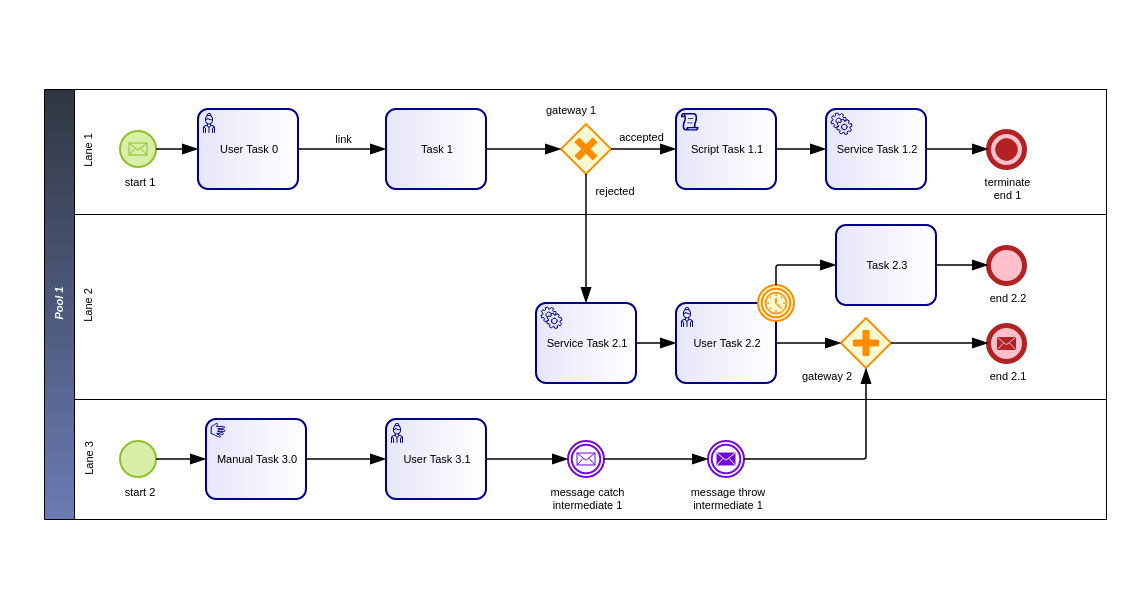
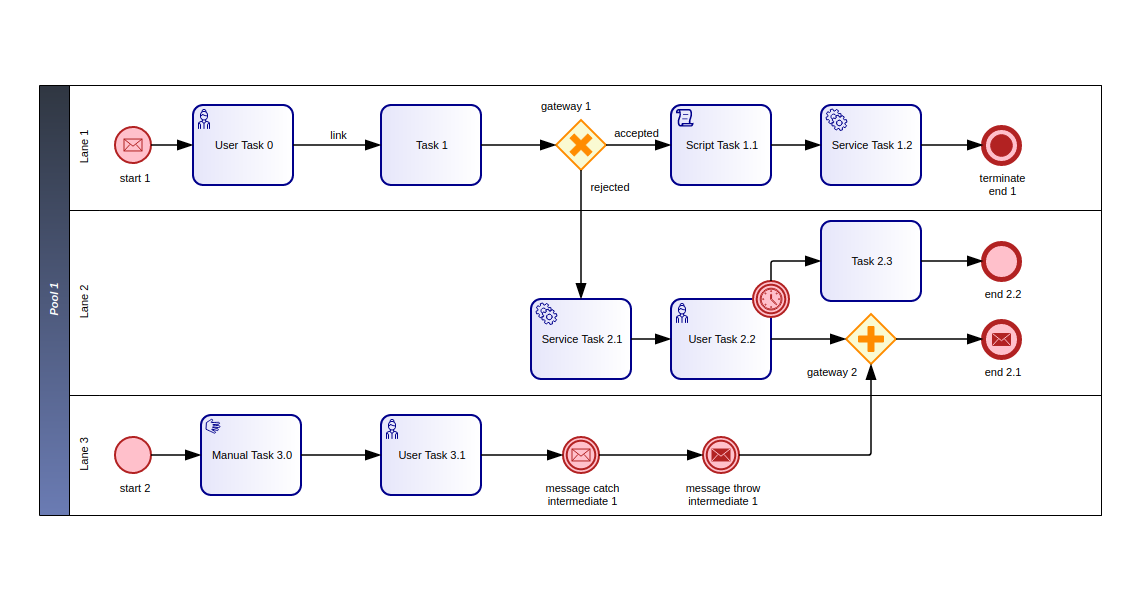
[FEAT] Improve the layout of the diagram used in 'custom colors' example (#279)
Better align the tasks and the gateway at the right of the diagram. Update the preview accordingly.

Changed region(s): [[0.0307, 0.12, 0.9825, 0.87]]

diff --git a/examples/static/js/diagram/bpmn-diagrams.js b/examples/static/js/diagram/bpmn-diagrams.js
@@ -1067,11 +1067,11 @@ function getCustomColorsBpmnDiagram() {
       <bpmn:lane id="Lane_1dunul0" name="Lane 2">
         <bpmn:flowNodeRef>Activity_1wr0s0r</bpmn:flowNodeRef>
         <bpmn:flowNodeRef>Activity_1c0vze1</bpmn:flowNodeRef>
-        <bpmn:flowNodeRef>Gateway_1hq21li</bpmn:flowNodeRef>
-        <bpmn:flowNodeRef>Activity_1isj93o</bpmn:flowNodeRef>
         <bpmn:flowNodeRef>Event_0gj6ba4</bpmn:flowNodeRef>
         <bpmn:flowNodeRef>Event_1euev5d</bpmn:flowNodeRef>
         <bpmn:flowNodeRef>Event_0b04u9t</bpmn:flowNodeRef>
+        <bpmn:flowNodeRef>Activity_1isj93o</bpmn:flowNodeRef>
+        <bpmn:flowNodeRef>Gateway_1hq21li</bpmn:flowNodeRef>
       </bpmn:lane>
       <bpmn:lane id="Lane_13kpaun" name="Lane 1">
         <bpmn:flowNodeRef>Activity_1sn3x37</bpmn:flowNodeRef>
@@ -1121,18 +1121,9 @@ function getCustomColorsBpmnDiagram() {
       <bpmn:incoming>Flow_0i9h5sw</bpmn:incoming>
       <bpmn:outgoing>Flow_1hvyo7b</bpmn:outgoing>
     </bpmn:serviceTask>
-    <bpmn:parallelGateway id="Gateway_1hq21li" name="gateway 2">
-      <bpmn:incoming>Flow_0sqwsrw</bpmn:incoming>
-      <bpmn:incoming>Flow_0g017tm</bpmn:incoming>
-      <bpmn:outgoing>Flow_09zytr1</bpmn:outgoing>
-    </bpmn:parallelGateway>
     <bpmn:sequenceFlow id="Flow_1hvyo7b" sourceRef="Activity_1wr0s0r" targetRef="Activity_1c0vze1" />
     <bpmn:sequenceFlow id="Flow_0sqwsrw" sourceRef="Activity_1c0vze1" targetRef="Gateway_1hq21li" />
     <bpmn:sequenceFlow id="Flow_09zytr1" sourceRef="Gateway_1hq21li" targetRef="Event_0gj6ba4" />
-    <bpmn:task id="Activity_1isj93o" name="Task 2.3">
-      <bpmn:incoming>Flow_0y3c2hb</bpmn:incoming>
-      <bpmn:outgoing>Flow_1rtnm1c</bpmn:outgoing>
-    </bpmn:task>
     <bpmn:sequenceFlow id="Flow_1rtnm1c" sourceRef="Activity_1isj93o" targetRef="Event_1euev5d" />
     <bpmn:sequenceFlow id="Flow_08z7uoy" sourceRef="Activity_0gsh2b6" targetRef="Event_1wihmdr" />
     <bpmn:sequenceFlow id="Flow_0t8djvo" sourceRef="Event_1wihmdr" targetRef="Event_1q818hp" />
@@ -1178,6 +1169,15 @@ function getCustomColorsBpmnDiagram() {
       <bpmn:incoming>Flow_0ule9dn</bpmn:incoming>
       <bpmn:outgoing>Flow_1ceafgv</bpmn:outgoing>
     </bpmn:scriptTask>
+    <bpmn:task id="Activity_1isj93o" name="Task 2.3">
+      <bpmn:incoming>Flow_0y3c2hb</bpmn:incoming>
+      <bpmn:outgoing>Flow_1rtnm1c</bpmn:outgoing>
+    </bpmn:task>
+    <bpmn:parallelGateway id="Gateway_1hq21li" name="gateway 2">
+      <bpmn:incoming>Flow_0sqwsrw</bpmn:incoming>
+      <bpmn:incoming>Flow_0g017tm</bpmn:incoming>
+      <bpmn:outgoing>Flow_09zytr1</bpmn:outgoing>
+    </bpmn:parallelGateway>
   </bpmn:process>
   <bpmndi:BPMNDiagram id="BPMNDiagram_1">
     <bpmndi:BPMNPlane id="BPMNPlane_1" bpmnElement="Collaboration_03068dc">
@@ -1193,19 +1193,47 @@ function getCustomColorsBpmnDiagram() {
       <bpmndi:BPMNShape id="Lane_0xke7q1_di" bpmnElement="Lane_0xke7q1" isHorizontal="true">
         <dc:Bounds x="188" y="360" width="1032" height="120" />
       </bpmndi:BPMNShape>
+      <bpmndi:BPMNEdge id="Flow_1xebfcb_di" bpmnElement="Flow_1xebfcb">
+        <di:waypoint x="420" y="420" />
+        <di:waypoint x="500" y="420" />
+      </bpmndi:BPMNEdge>
+      <bpmndi:BPMNEdge id="Flow_0pmwt6x_di" bpmnElement="Flow_0pmwt6x">
+        <di:waypoint x="270" y="420" />
+        <di:waypoint x="320" y="420" />
+      </bpmndi:BPMNEdge>
+      <bpmndi:BPMNEdge id="Flow_0t8djvo_di" bpmnElement="Flow_0t8djvo">
+        <di:waypoint x="718" y="420" />
+        <di:waypoint x="822" y="420" />
+      </bpmndi:BPMNEdge>
+      <bpmndi:BPMNEdge id="Flow_08z7uoy_di" bpmnElement="Flow_08z7uoy">
+        <di:waypoint x="600" y="420" />
+        <di:waypoint x="682" y="420" />
+      </bpmndi:BPMNEdge>
       <bpmndi:BPMNEdge id="Flow_1rtnm1c_di" bpmnElement="Flow_1rtnm1c">
-        <di:waypoint x="1050" y="226" />
+        <di:waypoint x="1040" y="226" />
         <di:waypoint x="1102" y="226" />
+      </bpmndi:BPMNEdge>
+      <bpmndi:BPMNEdge id="Flow_09zytr1_di" bpmnElement="Flow_09zytr1">
+        <di:waypoint x="1015" y="304" />
+        <di:waypoint x="1102" y="304" />
+      </bpmndi:BPMNEdge>
+      <bpmndi:BPMNEdge id="Flow_0sqwsrw_di" bpmnElement="Flow_0sqwsrw">
+        <di:waypoint x="890" y="304" />
+        <di:waypoint x="965" y="304" />
+      </bpmndi:BPMNEdge>
+      <bpmndi:BPMNEdge id="Flow_1hvyo7b_di" bpmnElement="Flow_1hvyo7b">
+        <di:waypoint x="750" y="304" />
+        <di:waypoint x="790" y="304" />
       </bpmndi:BPMNEdge>
       <bpmndi:BPMNEdge id="Flow_0y3c2hb_di" bpmnElement="Flow_0y3c2hb">
         <di:waypoint x="890" y="246" />
         <di:waypoint x="890" y="226" />
-        <di:waypoint x="950" y="226" />
+        <di:waypoint x="940" y="226" />
       </bpmndi:BPMNEdge>
       <bpmndi:BPMNEdge id="Flow_0g017tm_di" bpmnElement="Flow_0g017tm">
         <di:waypoint x="858" y="420" />
-        <di:waypoint x="980" y="420" />
-        <di:waypoint x="980" y="329" />
+        <di:waypoint x="990" y="420" />
+        <di:waypoint x="990" y="329" />
       </bpmndi:BPMNEdge>
       <bpmndi:BPMNEdge id="Flow_1noi0ay_di" bpmnElement="Flow_1noi0ay">
         <di:waypoint x="600" y="110" />
@@ -1244,34 +1272,6 @@ function getCustomColorsBpmnDiagram() {
         <di:waypoint x="270" y="110" />
         <di:waypoint x="312" y="110" />
       </bpmndi:BPMNEdge>
-      <bpmndi:BPMNEdge id="Flow_1hvyo7b_di" bpmnElement="Flow_1hvyo7b">
-        <di:waypoint x="750" y="304" />
-        <di:waypoint x="790" y="304" />
-      </bpmndi:BPMNEdge>
-      <bpmndi:BPMNEdge id="Flow_0sqwsrw_di" bpmnElement="Flow_0sqwsrw">
-        <di:waypoint x="890" y="304" />
-        <di:waypoint x="955" y="304" />
-      </bpmndi:BPMNEdge>
-      <bpmndi:BPMNEdge id="Flow_09zytr1_di" bpmnElement="Flow_09zytr1">
-        <di:waypoint x="1005" y="304" />
-        <di:waypoint x="1102" y="304" />
-      </bpmndi:BPMNEdge>
-      <bpmndi:BPMNEdge id="Flow_08z7uoy_di" bpmnElement="Flow_08z7uoy">
-        <di:waypoint x="600" y="420" />
-        <di:waypoint x="682" y="420" />
-      </bpmndi:BPMNEdge>
-      <bpmndi:BPMNEdge id="Flow_0t8djvo_di" bpmnElement="Flow_0t8djvo">
-        <di:waypoint x="718" y="420" />
-        <di:waypoint x="822" y="420" />
-      </bpmndi:BPMNEdge>
-      <bpmndi:BPMNEdge id="Flow_0pmwt6x_di" bpmnElement="Flow_0pmwt6x">
-        <di:waypoint x="270" y="420" />
-        <di:waypoint x="320" y="420" />
-      </bpmndi:BPMNEdge>
-      <bpmndi:BPMNEdge id="Flow_1xebfcb_di" bpmnElement="Flow_1xebfcb">
-        <di:waypoint x="420" y="420" />
-        <di:waypoint x="500" y="420" />
-      </bpmndi:BPMNEdge>
       <bpmndi:BPMNShape id="Activity_0ifu0xr_di" bpmnElement="Activity_1sn3x37">
         <dc:Bounds x="312" y="70" width="100" height="80" />
       </bpmndi:BPMNShape>
@@ -1304,15 +1304,6 @@ function getCustomColorsBpmnDiagram() {
       </bpmndi:BPMNShape>
       <bpmndi:BPMNShape id="Activity_0jljuyk_di" bpmnElement="Activity_1c0vze1">
         <dc:Bounds x="790" y="264" width="100" height="80" />
-      </bpmndi:BPMNShape>
-      <bpmndi:BPMNShape id="Gateway_0m423t9_di" bpmnElement="Gateway_1hq21li">
-        <dc:Bounds x="955" y="279" width="50" height="50" />
-        <bpmndi:BPMNLabel>
-          <dc:Bounds x="914" y="329" width="51" height="14" />
-        </bpmndi:BPMNLabel>
-      </bpmndi:BPMNShape>
-      <bpmndi:BPMNShape id="Activity_1isj93o_di" bpmnElement="Activity_1isj93o">
-        <dc:Bounds x="950" y="186" width="100" height="80" />
       </bpmndi:BPMNShape>
       <bpmndi:BPMNShape id="Event_0bpyu2c_di" bpmnElement="Event_0gj6ba4">
         <dc:Bounds x="1102" y="286" width="36" height="36" />
@@ -1352,6 +1343,15 @@ function getCustomColorsBpmnDiagram() {
       </bpmndi:BPMNShape>
       <bpmndi:BPMNShape id="Activity_1ozehkd_di" bpmnElement="Activity_1s8cug0">
         <dc:Bounds x="790" y="70" width="100" height="80" />
+      </bpmndi:BPMNShape>
+      <bpmndi:BPMNShape id="Activity_1isj93o_di" bpmnElement="Activity_1isj93o">
+        <dc:Bounds x="940" y="186" width="100" height="80" />
+      </bpmndi:BPMNShape>
+      <bpmndi:BPMNShape id="Gateway_0m423t9_di" bpmnElement="Gateway_1hq21li">
+        <dc:Bounds x="965" y="279" width="50" height="50" />
+        <bpmndi:BPMNLabel>
+          <dc:Bounds x="924" y="329" width="51" height="14" />
+        </bpmndi:BPMNLabel>
       </bpmndi:BPMNShape>
       <bpmndi:BPMNShape id="Event_09mwmj0_di" bpmnElement="Event_0b04u9t">
         <dc:Bounds x="872" y="246" width="36" height="36" />